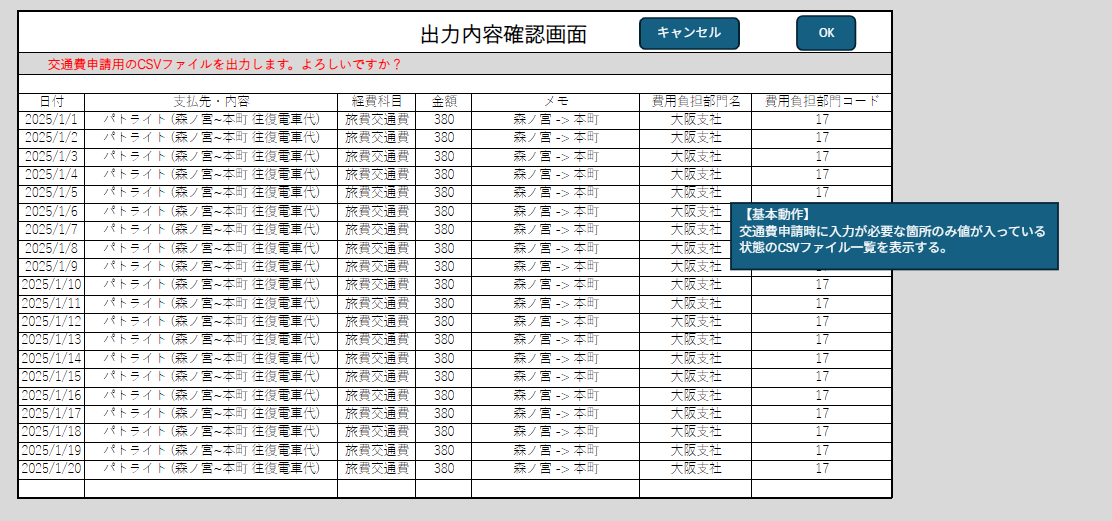
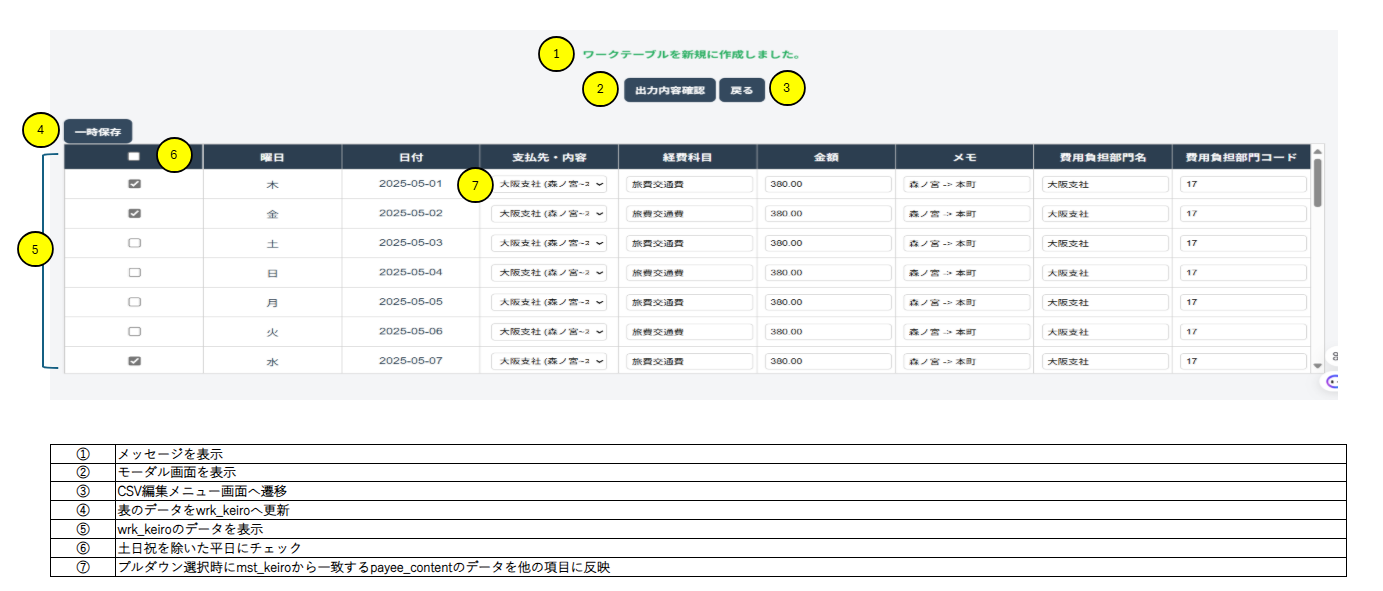
個別支払先変更時の金額表示修正＆設計書修正

diff --git a/AttrMF/csvdownload/csvcreate/src/main/resources/static/js/modal.js b/AttrMF/csvdownload/csvcreate/src/main/resources/static/js/modal.js
@@ -166,8 +166,8 @@ function onPayeeChange(selectElement, rowIndex) {
     .then(data => {
         // 金額を数値に変換し、小数点2桁で表示
         const formattedAmount = data.amountInclusiveTax !== null
-            ? parseFloat(data.amountInclusiveTax).toFixed(2)
-            : '';
+        ? (Math.round(data.amountInclusiveTax * 100) / 100).toFixed(2)
+        : '';   
 
         document.querySelector(`[name="koutsuuhiList[${rowIndex}].expenseCategory"]`).value = data.expense_category || '';
         document.querySelector(`[name="koutsuuhiList[${rowIndex}].amount"]`).value = formattedAmount;

diff --git a/AttrMF/csvdownload/csvcreate/docs/CreateKeiro.md b/AttrMF/csvdownload/csvcreate/docs/CreateKeiro.md
@@ -13,9 +13,13 @@
 
 ### 主な機能
 
-1. 経路CSVファイルを経路DBに保存する
-2. 選択された月のCSV管理表に経路DBの内容を一括表示する
-3. 表示内容で問題なければ交通費申請CSVファイルを選択月で生成する
+1. アップロード画面でエクスポートされたCSVファイルをマスタテーブルに保存
+2. CSV管理メニュー画面でワークテーブルを新規作成か既存データ表示か選択できる
+3. CSV管理画面表示の際に既存か新規のワークテーブルデータを表示
+4. 土日祝はダウンロード対象から外す
+5. ワークテーブルの更新機能
+6. モーダル画面でダウンロード内容のチェック
+7. ローカルにCSVファイルをダウンロード
 
 ### 対象ユーザー
 
@@ -25,65 +29,107 @@
 
 1. 言語：Java（version17）
 2. フレームワーク：Spring boot
-3. DB：SQLite
+3. DB：MySQL
 
 ## 画面設計
 
-### CSVファイル簡易作成ツール画面
+### CSV編集メニュー画面
 
-![CSV簡易作成ツール画面](../pic/image.png)
+![CSV編集メニュー画面](../pic/image1.png)
 
-### 編集画面
+### CSVファイルアップロード画面
 
-![編集画面](../pic/image2.png)
+![CSVファイルアップロード画面](../pic/image2.png)
 
-### 一覧確認画面
+### CSVファイル管理画面
 
-![一覧画面](../pic/image3.png)
+![CSVファイル管理画面](../pic/image3.png)
+
+### モーダル画面
+
+![モーダル画面](../pic/image4.png)
 
 ## 機能仕様
 
-### 年月情報取得
+### CSV編集メニュー画面 【①】
 
-CSVファイル簡易作成ツール画面表示の際に現在時刻を取得し日付ラベルに反映する
+CSVファイルアップロード画面に遷移する
 
-### ファイルの選択
+### CSV編集メニュー画面 【②】
 
-ファイル選択ボタン押下時にファイル選択画面を表示し経路CSVファイルを選択する機能を追加する
+CSV編集メニュー画面表示の際にmst_keiroテーブルの支払先・内容を反映する
 
-### 反映ボタン押下
+### CSV編集メニュー画面 【③】
 
-反映ボタンを押下時に経路CSVファイル内すべての内容をMST_KEIROに登録する機能を追加
+CSV編集メニュー画面表示の際に現在時刻を反映する
 
-### カレンダーの選択
+### CSV編集メニュー画面 【④】
 
-ユーザーがカレンダーから対象年月を選択した場合に日付ラベルに選択月を反映する
+押下時にCSVファイル管理画面へ遷移し、履歴wrk_keiroデータを表示
 
-### 生成欄のチェックボックス押下
+### CSV編集メニュー画面 【⑤】
 
-生成欄のチェックボックスにユーザーがチェックを入れると該当日のCSV管理表にWRK_KEIROの情報が反映する
-チェックを外すと該当日のCSV管理表が未反映になる
+押下時にCSVファイル管理画面へ遷移し、新規wrk_keiroデータを表示
 
-### 編集ボタン押下
+### CSVファイルアップロード画面 【①】
 
-ユーザーが編集ボタン押下時に編集画面を表示する
+押下時にエクスプローラーを開く
 
-### 出力ボタン押下
+### CSVファイルアップロード画面 【②】
 
-ユーザーが出力ボタン押下時に一覧確認画面を表示する
+押下時にローカル環境へCSVファイルをダウンロードする
 
-### CSVファイル出力時
+### CSVファイルアップロード画面 【③】
 
-ローカルのダウンロードフォルダにCSVファイルを出力し画面内のラベルに「CSVファイルの出力が完了しました。」と表示する
+押下時にCSV編集メニュー画面へ遷移する
+
+### CSVファイル管理画面 【①】
+
+メッセージを表示する
+
+### CSVファイル管理画面 【②】
+
+モーダル画面を表示する
+
+### CSVファイル管理画面 【③】
+
+押下時にCSV編集メニュー画面へ遷移する
+
+### CSVファイル管理画面 【④】
+
+押下時にCSV管理表内のデータをwrk_keiroテーブルに保存する
+
+### CSVファイル管理画面 【⑤】
+
+wrk_keiroテーブルのデータを表示する
+
+### CSVファイル管理画面 【⑥】
+
+押下時に全選択と全選択解除する
+
+### CSVファイル管理画面 【⑦】
+
+選択時にmst_keiroテーブルのpayeecontentから同じデータを検索しCSV管理表の他項目を自動反映する
+
+### モーダル画面 【①】
+
+押下時にローカルへCSVファイルをダウンロードする
+
+### モーダル画面 【②】
+
+押下時にモーダル画面を閉じる
+
+### モーダル画面 【③】
+
+ダブルクリックでモーダル画面を閉じる
 
 ## 機能詳細
 
-### 年月情報取得：詳細
+### CSV編集メニュー画面 ①
 
 WEBアプリ起動時および再読み込み時に、現在の年月を自動で取得する
 
-- [ ] 入力なし：
-自動入力
+- [ ] 入力なし：自動入力
 
 - [ ] 出力あり：
 当月の年月情報（例：2025/4など）

diff --git a/AttrMF/csvdownload/csvcreate/README.md b/AttrMF/csvdownload/csvcreate/README.md
@@ -1,5 +1,5 @@
 
-# 開発手順書
+# 利用手順書
 
 ## 前提環境
 
@@ -8,7 +8,36 @@
 | Java | 17 | JAVA_HOMEの設定推奨 |
 | JDK | 21 | ー |
 | Maven | 3.9.9 | ターミナルにmvn -vを入力しバージョン確認可 |
-
-## 必要な拡張機能
+| SpringBoot |ー|ー|
 
 ## 起動手順
+
+## 利用手順
+
+### マネーフォワードクラウド経費側の操作（ツール実行前）
+
+![申請一覧画面](./pic/image5.png)
+
+![経費精算画面](./pic/image6.png)
+
+![ダウンロード画面](./pic/image7.png)
+
+### CSVファイル簡易作成ツール側の操作
+
+![CSV編集メニュー画面](./pic/image8.png)
+
+![CSVファイルアップロード画面](./pic/image9.png)
+
+![エクスプローラー画面](./pic/image10.png)
+
+![CSVファイルアップロード画面](./pic/image11.png)
+
+![CSV編集メニュー画面](./pic/image12.png)
+
+![CSV編集メニュー画面](./pic/image13.png)
+
+![CSV管理表画面（履歴）](./pic/image14.png)
+
+![CSV管理表画面（新規）](./pic/image15.png)
+
+![CSV管理表画面](./pic/image16.png)
